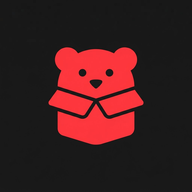
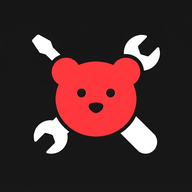
アイコンを修理道具とクマに変更
Claude-Session: https://claude.ai/code/session_018AqJEQkJoCbTvsm3dQsGPr

Changed region(s): [[0.1562, 0.1562, 0.8438, 0.8125], [0.4688, 0.4062, 0.5312, 0.4688]]

diff --git a/docs/index.html b/docs/index.html
@@ -164,7 +164,7 @@ function LGBar(nav,o){
 <div class="toast" id="toast"></div>
 <script>
 "use strict";
-const VERSION = "2026-11-22f";
+const VERSION = "2026-11-22g";
 const API_URL = "https://script.google.com/macros/s/AKfycbzLj1WVVsp_Y381rZHvkWM8RIqSIojozl7S2J0zHbDb8ioOI6-VDFV9UpNWZ6zSI-Pb/exec";
 const CLIENT_ID = "944595939498-b4ei4dlbcuap8v4o0ellepfj41m4j3j8.apps.googleusercontent.com";
 const VAPID = "BHtezYeb2IHihwwlphfDX6v8KM-cvxyr6_UBOEINt8t_DDfuC47Mz65hJ2t74aJCSSAVkMNb8_dkykCgJryvbZ8";
